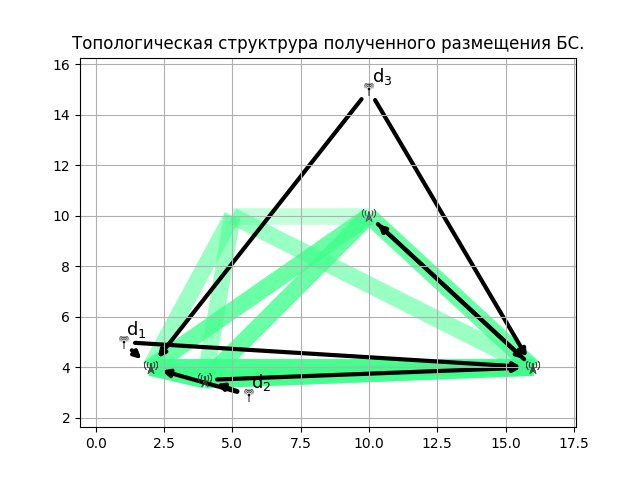
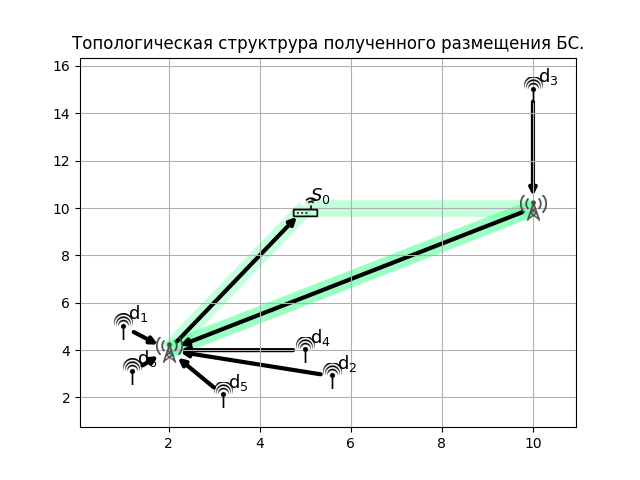
fixed drawing of position nodes and size of markers

diff --git a/src/drawing/draw.py b/src/drawing/draw.py
@@ -108,18 +108,19 @@ def prepare_draw_graph(net: Network, problem: MIP, solution: pd.Series
     draw_graph = nx.DiGraph()
     draw_link_distance = nx.DiGraph()
 
-    edge_z = list(product(net.device.keys(),
-                          net.station.keys()))
-    edge_x = (list(permutations(net.station.keys(), 2)) +
-              list(product(net.station.keys(),
-                           net.gateway.keys())))
+
+    _x_nodes = (list(permutations(net.station.keys(), 2)) +
+                list(product(net.station.keys(),
+                             net.gateway.keys())))
+    edge_z = [(i, j) for i, j in product(net.device.keys(),
+                                         net.station.keys())
+              if net.adj_matrix[i, j] == 1]
+    edge_x = [(i, j) for i, j in _x_nodes if net.adj_matrix[i, j] == 1]
 
     y_node = list(zip(problem.of.column.y, problem.of.var.y))
     solution_variable = edge_z + edge_x + y_node
     labels = {}
     for k in range(len(solution)):
-        print(solution_variable[k][0])
-        print(solution.index[k])
         if solution_variable[k][0] == solution.index[k]:
             labels.update({solution_variable[k][1][1:]: solution[k]})
         else:
@@ -243,7 +244,7 @@ def draw_mip_graph(net: Network, problem: MIP, solution: pd.Series) -> None:
     tr_axes = fig.transFigure.inverted().transform
 
     # Select the size of the image (relative to the X axis)
-    icon_size = (ax.get_xlim()[1] - ax.get_xlim()[0]) * 0.0015
+    icon_size = (ax.get_xlim()[1] - ax.get_xlim()[0]) * 0.005
     icon_center = icon_size / 2.0
 
     # Add the respective image to each node

diff --git a/src/mipop/varnames.py b/src/mipop/varnames.py
@@ -30,8 +30,6 @@ def get_variable_name(input_data: InputData,
          Dict of variable names
     """
 
-    edge_z = list(product(input_data.device.keys(),
-                          input_data.station.keys()))
     _x_nodes = (list(permutations(input_data.station.keys(), 2)) +
                 list(product(input_data.station.keys(),
                              input_data.gateway.keys())))
